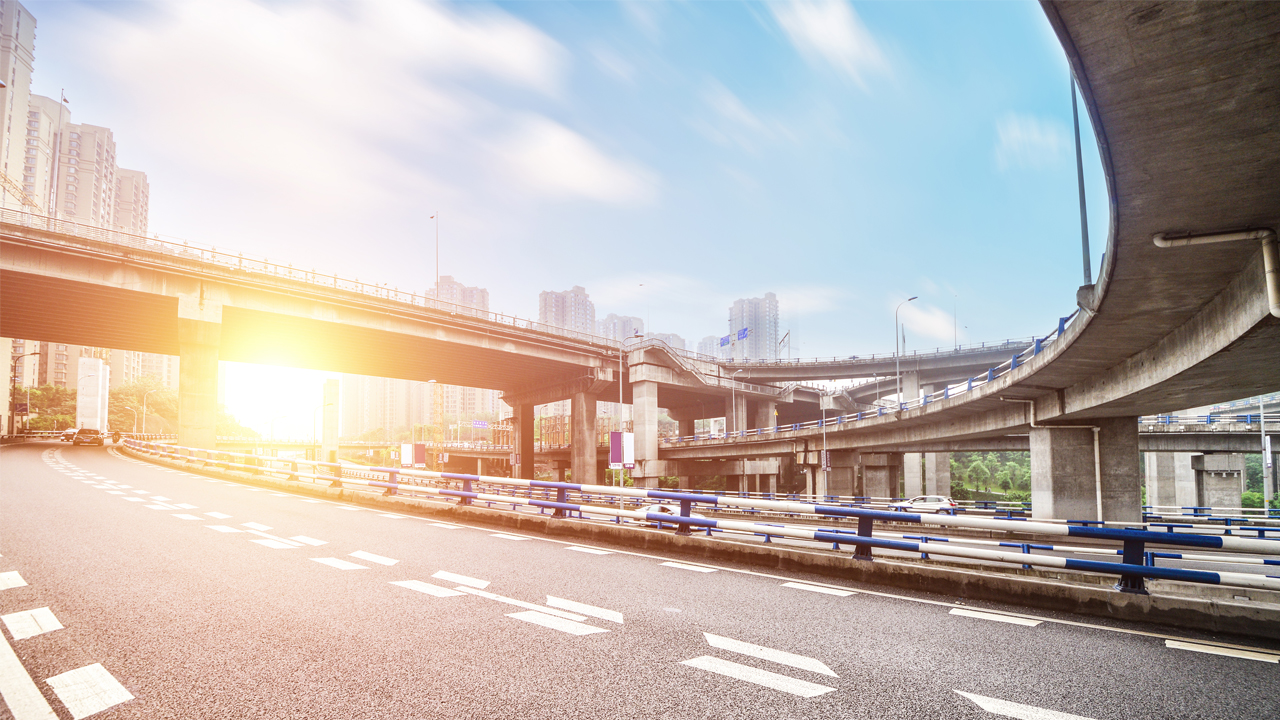
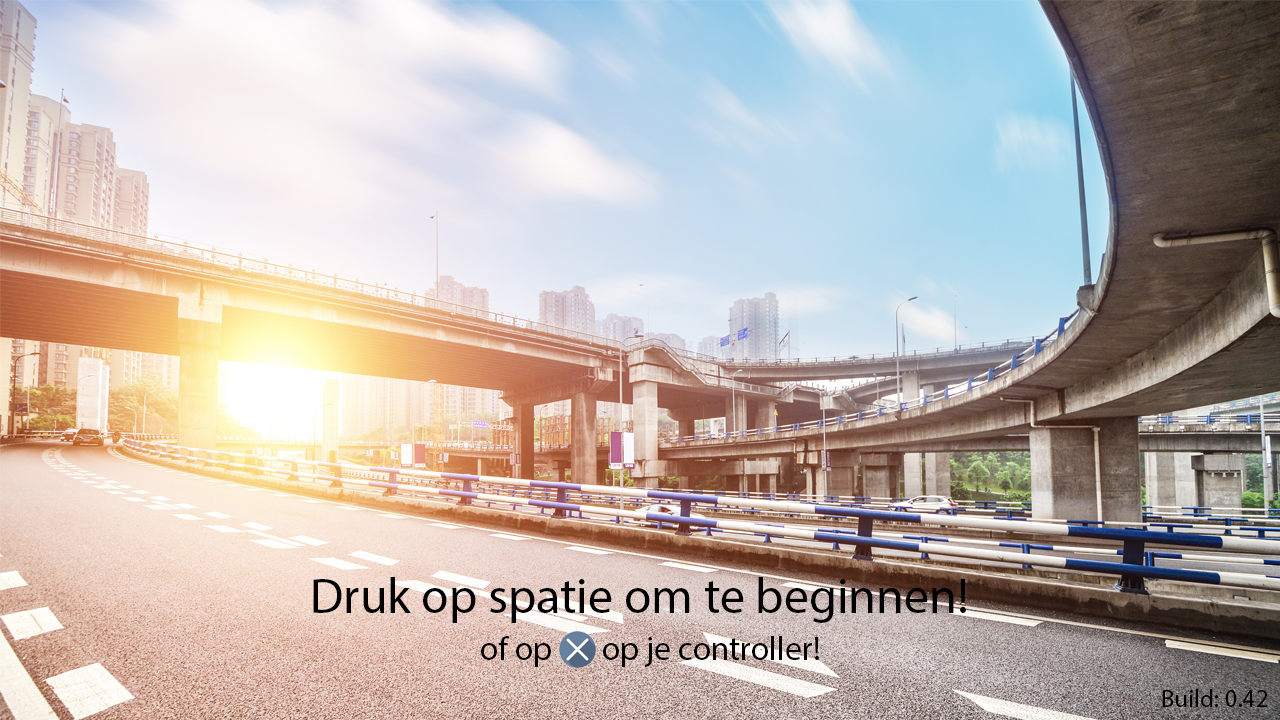
toeter

Changed region(s): [[0.2188, 0.7944, 0.75, 0.9472], [0.9062, 0.9472, 1.0, 0.9778]]

diff --git a/SDL/CIntroState.cpp b/SDL/CIntroState.cpp
@@ -24,7 +24,7 @@ void CIntroState::init(CEngine *engine)
 
 	SDL_Texture * texture = SDL_CreateTextureFromSurface(engine->renderer, surface);
 
-	SDL_Surface * background = IMG_Load("images\\mainbackground.jpg");
+	SDL_Surface * background = IMG_Load("images\\mainbackground.png");
 	SDL_Texture * background_texture = SDL_CreateTextureFromSurface(engine->renderer, background);
 
 	int texW = 0;
@@ -79,11 +79,17 @@ void CIntroState::update(CEngine * engine)
 		else if (event.type == SDL_KEYDOWN) {
 			switch (event.key.keysym.sym) {
 			case SDLK_SPACE:
-				std::cout << "next";
 				engine->stateManager->changeState(Playing, engine);
 				break;
 			default:
 				break;
+			}
+		}
+		else if (event.type == SDL_CONTROLLERBUTTONDOWN)
+		{
+			if (event.cbutton.button == SDL_CONTROLLER_BUTTON_A)
+			{
+				engine->stateManager->changeState(Playing, engine);
 			}
 		}
 		else {
